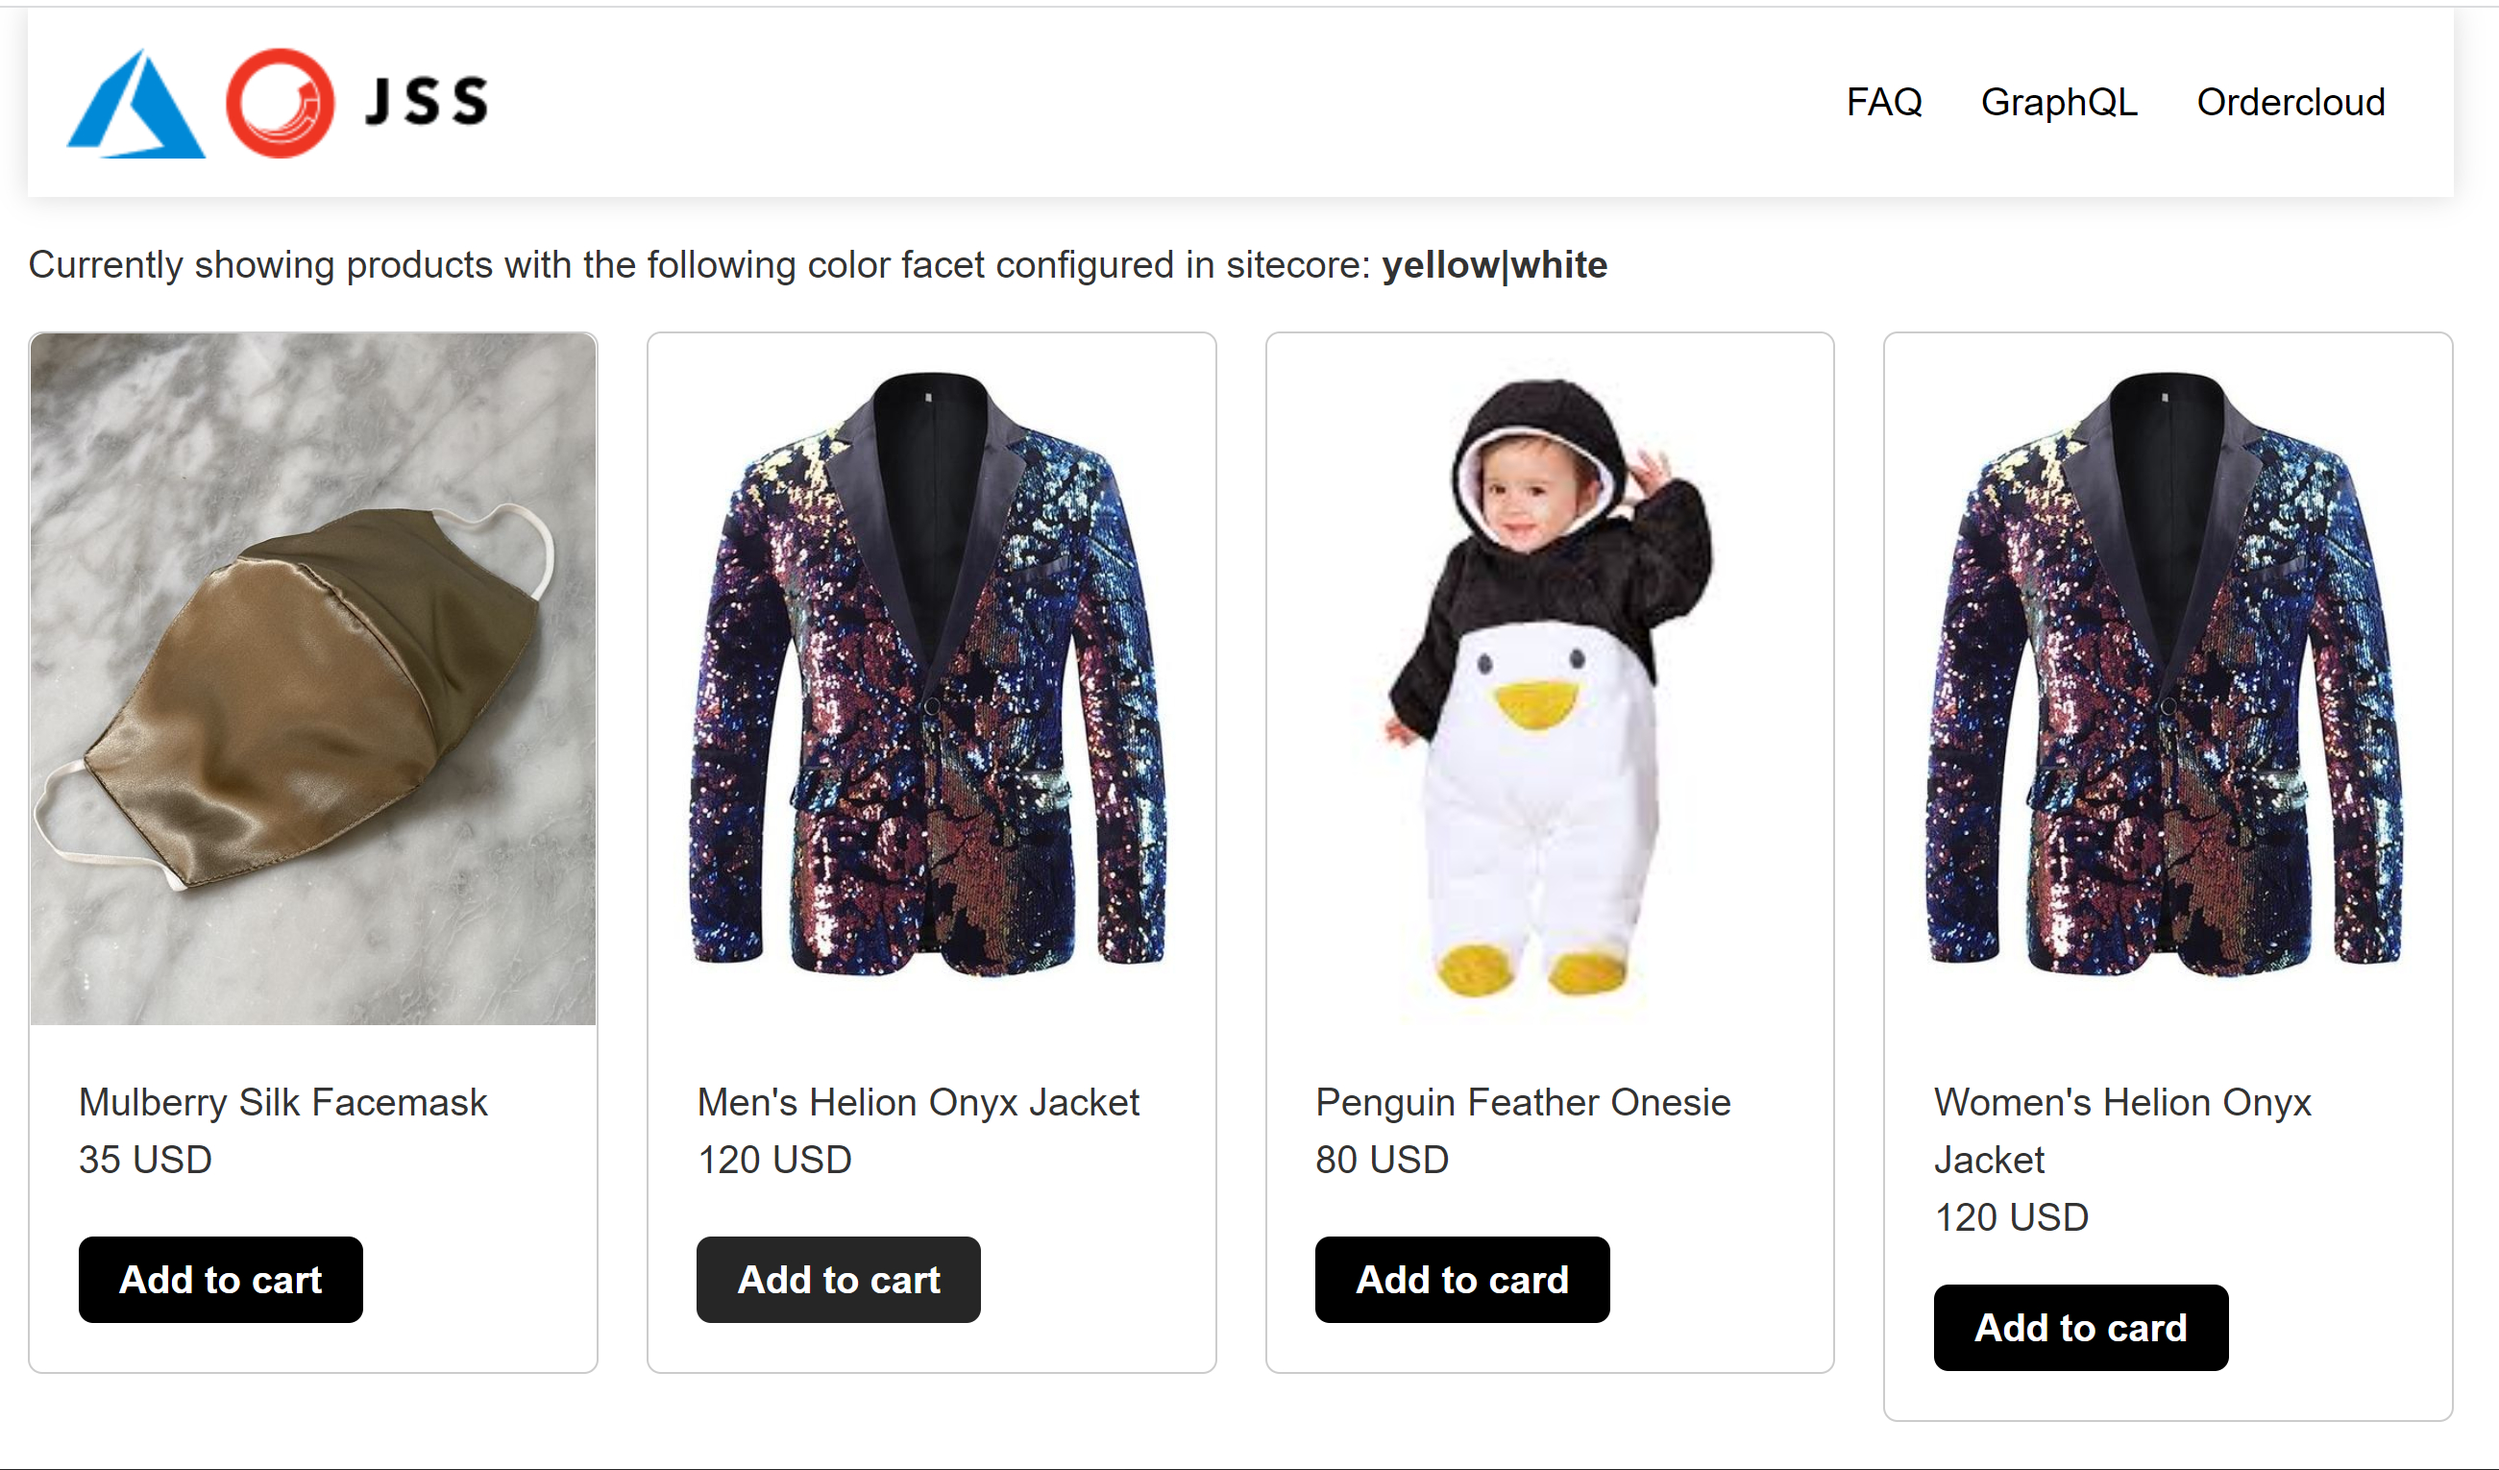
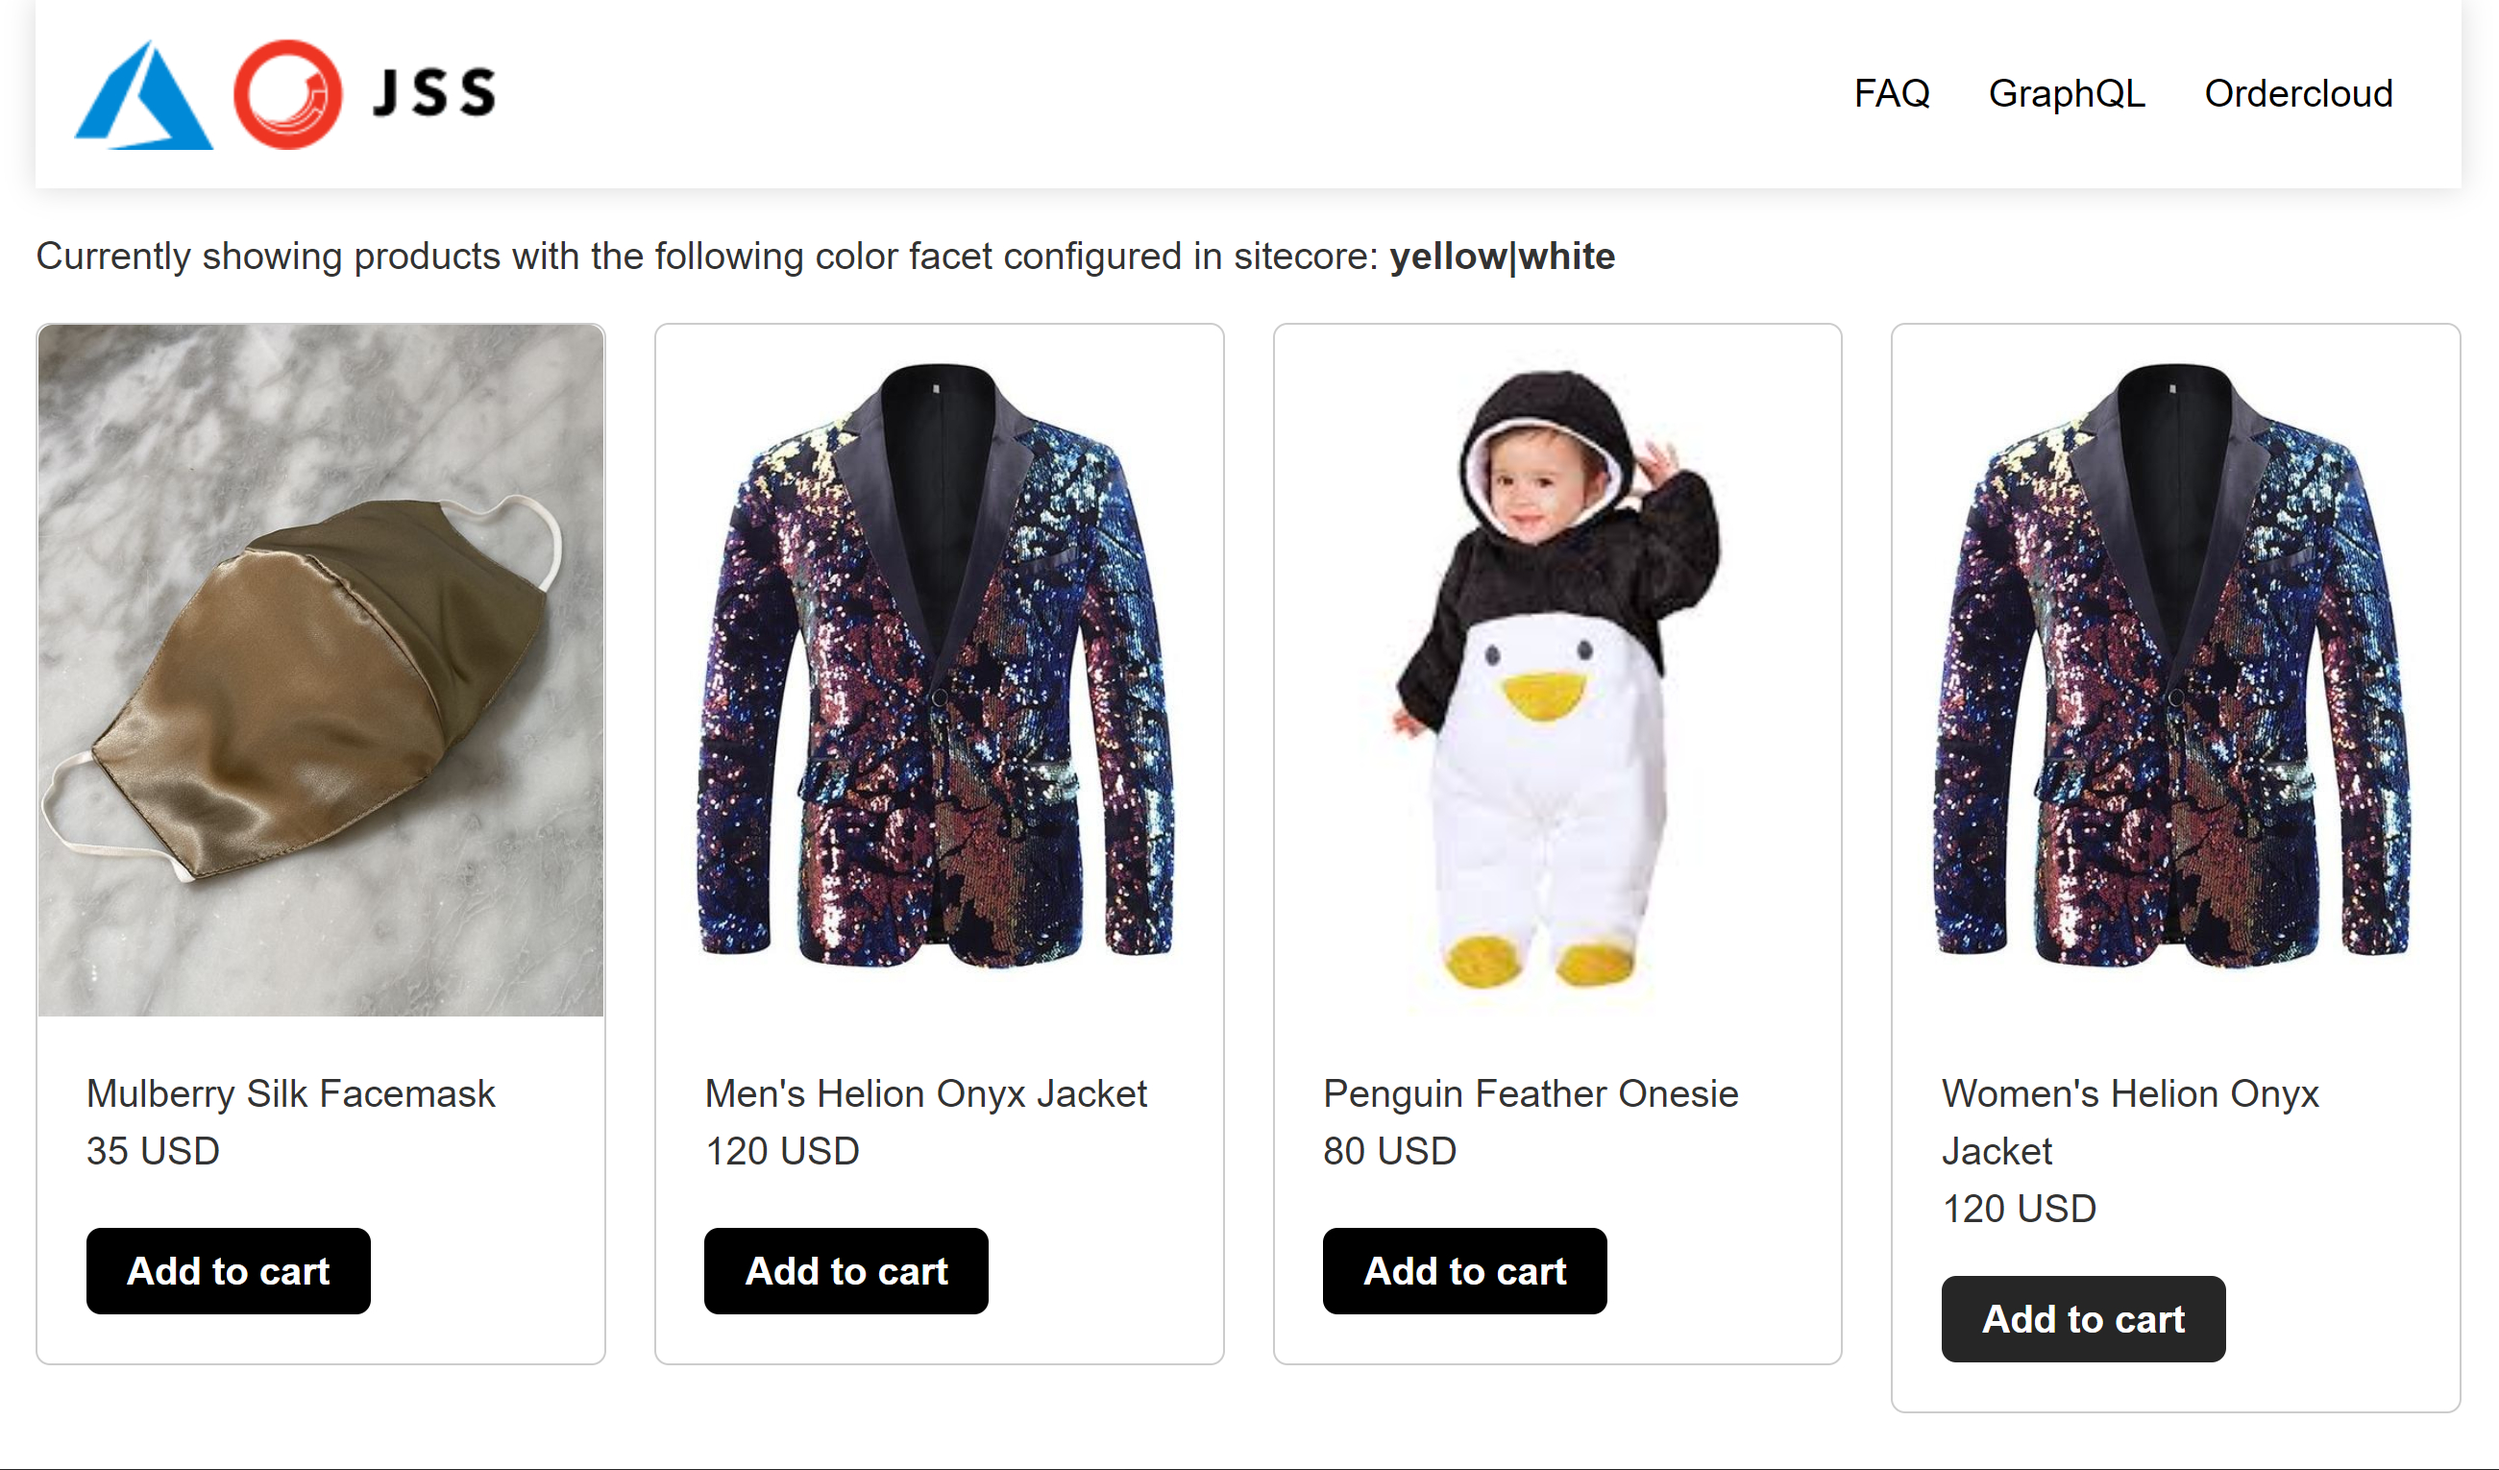
typos

diff --git a/src/pages/ordercloud-sitecore-jss-nextjs/index.md b/src/pages/ordercloud-sitecore-jss-nextjs/index.md
@@ -4,11 +4,11 @@ date: '2021-11-27'
 spoiler: One way of doing this 
 ---
 
-In this blog post, I like to explain how easy it is to add some products from OrderCloud to a pre-rendered page in Sitecore JSS using next.js
+In this blog post, I like to explain how easy it is to add some products from OrderCloud to a pre-rendered page in Sitecore JSS using Next.js
 
-## First make a storefront
+## First, make a storefront
 To be able to do this you need to create an OrderCloud marketplace and have some products. 
-I created a free OrderCloud command and ran these commands to automatically create a marketplace filled with products and facets:
+I created a free OrderCloud account and ran these commands to automatically create a marketplace filled with products and facets:
 
 - `npm i @ordercloud/seeding -g`
 - `seed https://raw.githubusercontent.com/ordercloud-api/ordercloud-seed/main/seeds/Simple-B2C.yml -u={username} -p={password`
@@ -17,6 +17,12 @@ Next, log in to your marketplace and make a note of the Storefront App ID:
 ![Storefront App ID](./api-key.jpg)
 
 Add this ID along with these OrderCloud variables to the .env file in the root of your JSS Next.js project:
+```
+NEXT_PUBLIC_OC_CLIENT_ID={AddYourStorefrontAppIdHere}
+NEXT_PUBLIC_OC_SCOPE=Shopper,MeAddressAdmin
+NEXT_PUBLIC_OC_BASE_API_URL=https://sandboxapi.ordercloud.io
+NEXT_PUBLIC_OC_ALLOW_ANONYMOUS=false
+```
 
 ## Initialise OrderCloud in your app
 In the _app.tsx add the following code to create a connection to Ordercloud using the Ordercloud Javascript SDK:
@@ -41,6 +47,8 @@ import { Configuration, Tokens, Auth } from "ordercloud-javascript-sdk";
 
 })();
 ```
+
+Now you have access to all the OrderCloud stuff throughout your application. If you only need OrderCloud on a specific set of routes, consider moving this logic somewhere else. 
 
 To display some products with an active facet pre-selected I have created a simple Sitecore component where the facet is set in the Sitecore admin. Component definition:
 
